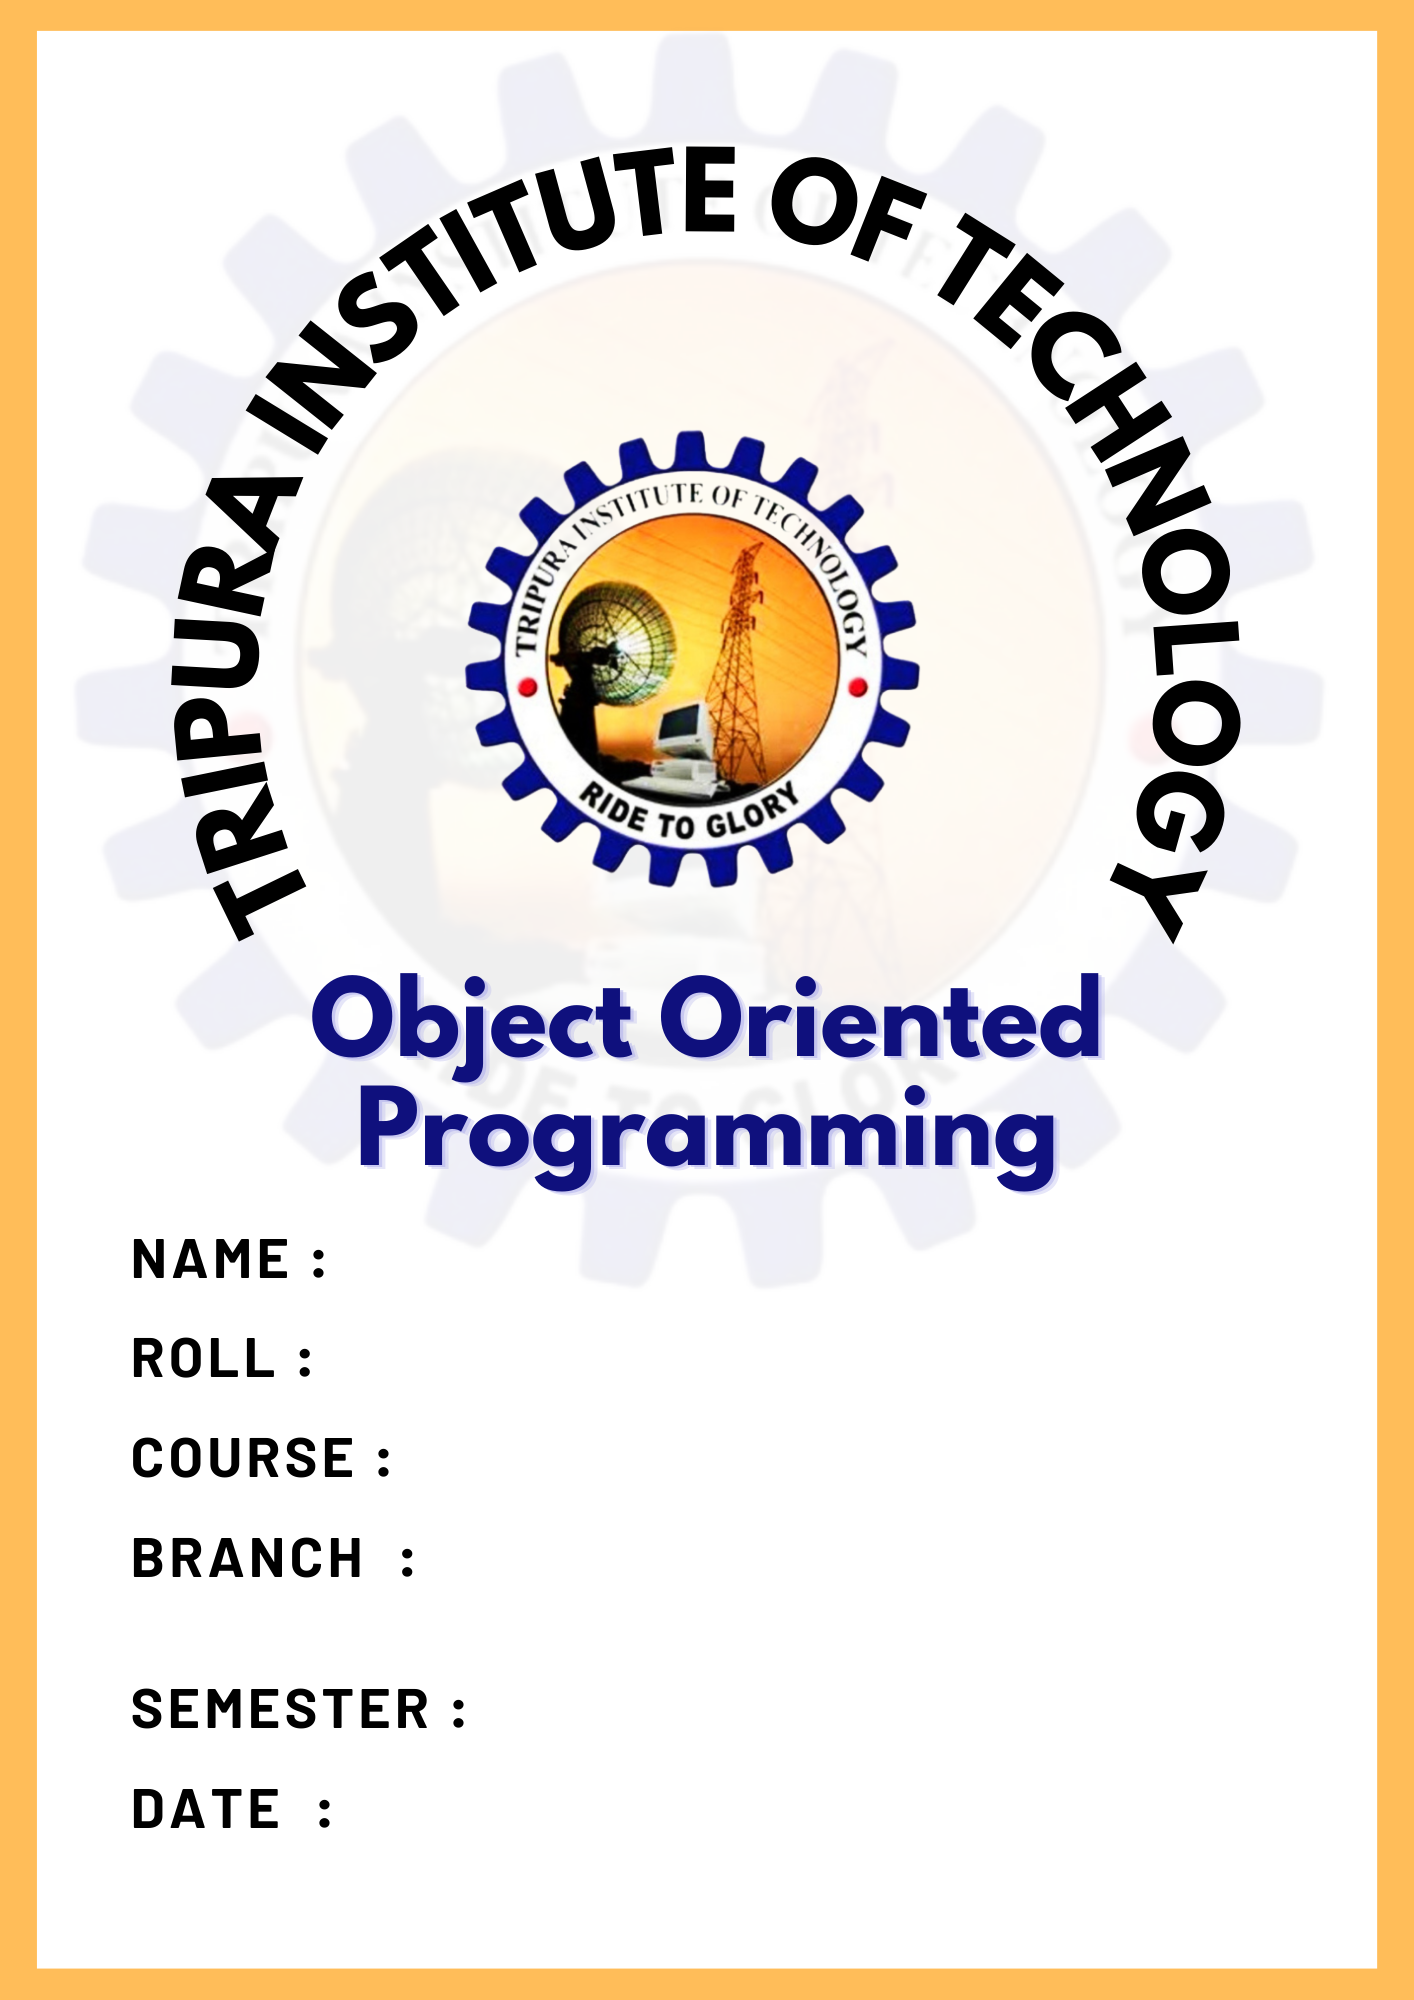
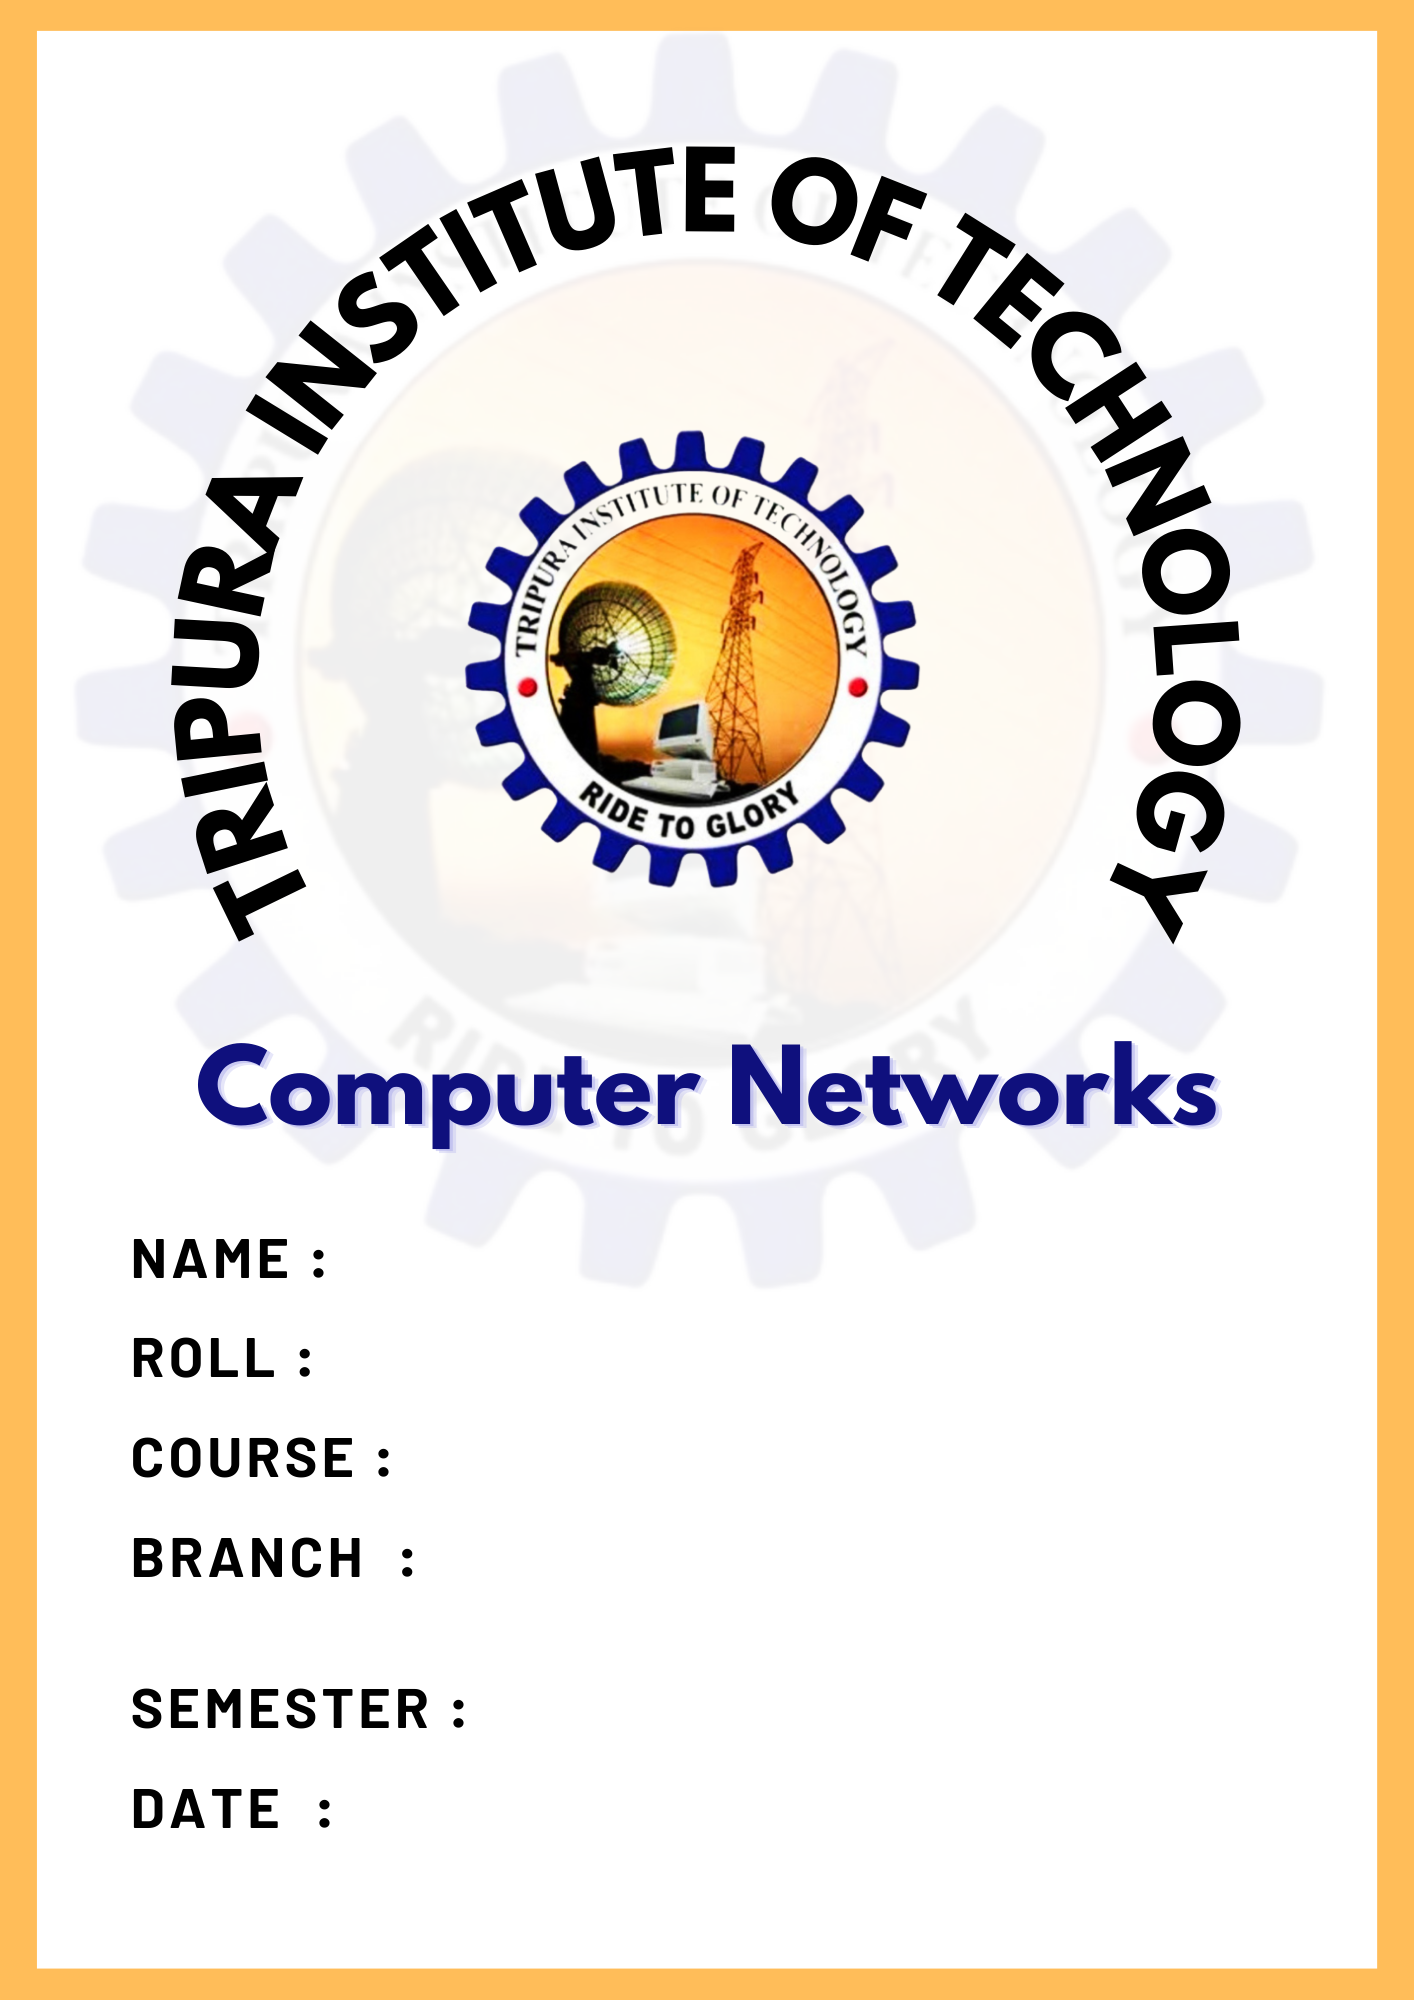
Chnages According to the 5th sem

Changed region(s): [[0.1245, 0.465, 0.8713, 0.62]]

diff --git a/index.php b/index.php
@@ -23,16 +23,18 @@
             <input type="date" name="date" class="form-control" id="formGroupExampleInput2" placeholder="Another input">
         </div>
         <select class="form-select" aria-label="Default select example" name="subject">
-            <option value="1">Engineering Economics and Accountancy</option>
-            <option value="2">Universal Human Values-II</option>
-            <option value="3">Discrete Mathematics </option>
-            <option value="4">Computer Organization & Architecture </option>
-            <option value="5"> Operating Systems </option>
-            <option value="6">Object Oriented Programming </option>
-            <option value="7">IT Workshop (Python/R) </option>
-            <option value="8"> Operating System Lab </option>
-            <option value="9">Object Oriented Programming Lab </option>
-            <option value="10">Essence of Indian Knowledge Tradition </option>
+            <option value="1">Professional Practice,
+Law and Ethics </option>
+            <option value="2">Design and Analysis of
+Algorithm</option>
+            <option value="3">Database Management Systems  </option>
+            <option value="4">Formal Language & Automata Theory</option>
+            <option value="5"> Artificial Intelligence </option>
+            <option value="6">Computer Networks </option>
+            <option value="7">Algorithm Lab </option>
+            <option value="8">Database Management System Lab</option>
+            <option value="9">Computer Hardware & Network Lab </option>
+            <option value="10">Industry Internship - I </option>
         </select>
         <button type="submit" name="create">Create</button>
     </form>

diff --git a/pdf/generate.php b/pdf/generate.php
@@ -146,7 +146,7 @@ if (isset($_POST['create'])) {
 
     // $pdf->Cell(70, 10, "       SEMESTER  :", 0, 0, 'L');
     $pdf->Cell(70, 5, "       ", 0, 0, 'L');
-    $pdf->Cell(110,12, '4TH SEMESTER', 0, 1, 'L');
+    $pdf->Cell(110,12, '5TH SEMESTER', 0, 1, 'L');
     $pdf->Cell(180, 5, '', 0, 1, 'L');
 
     // $pdf->Cell(70, 10, "       DATE  :", 0, 0, 'L');
